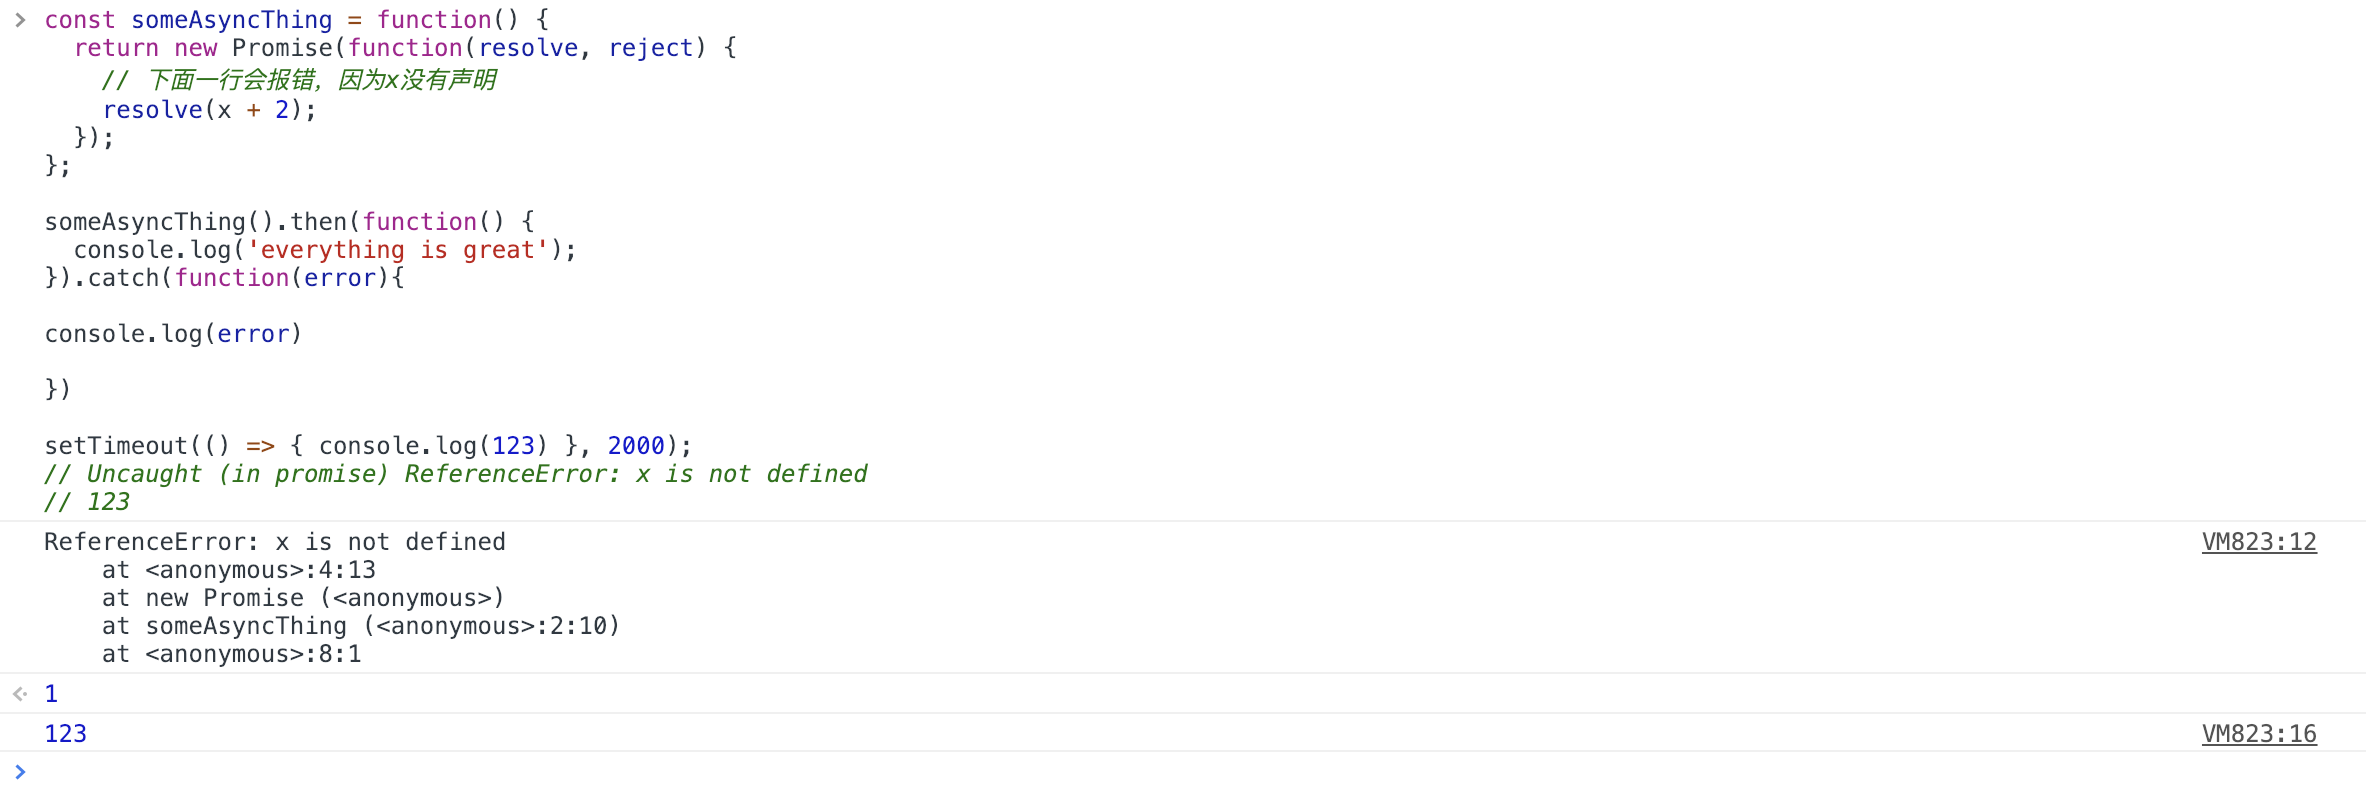
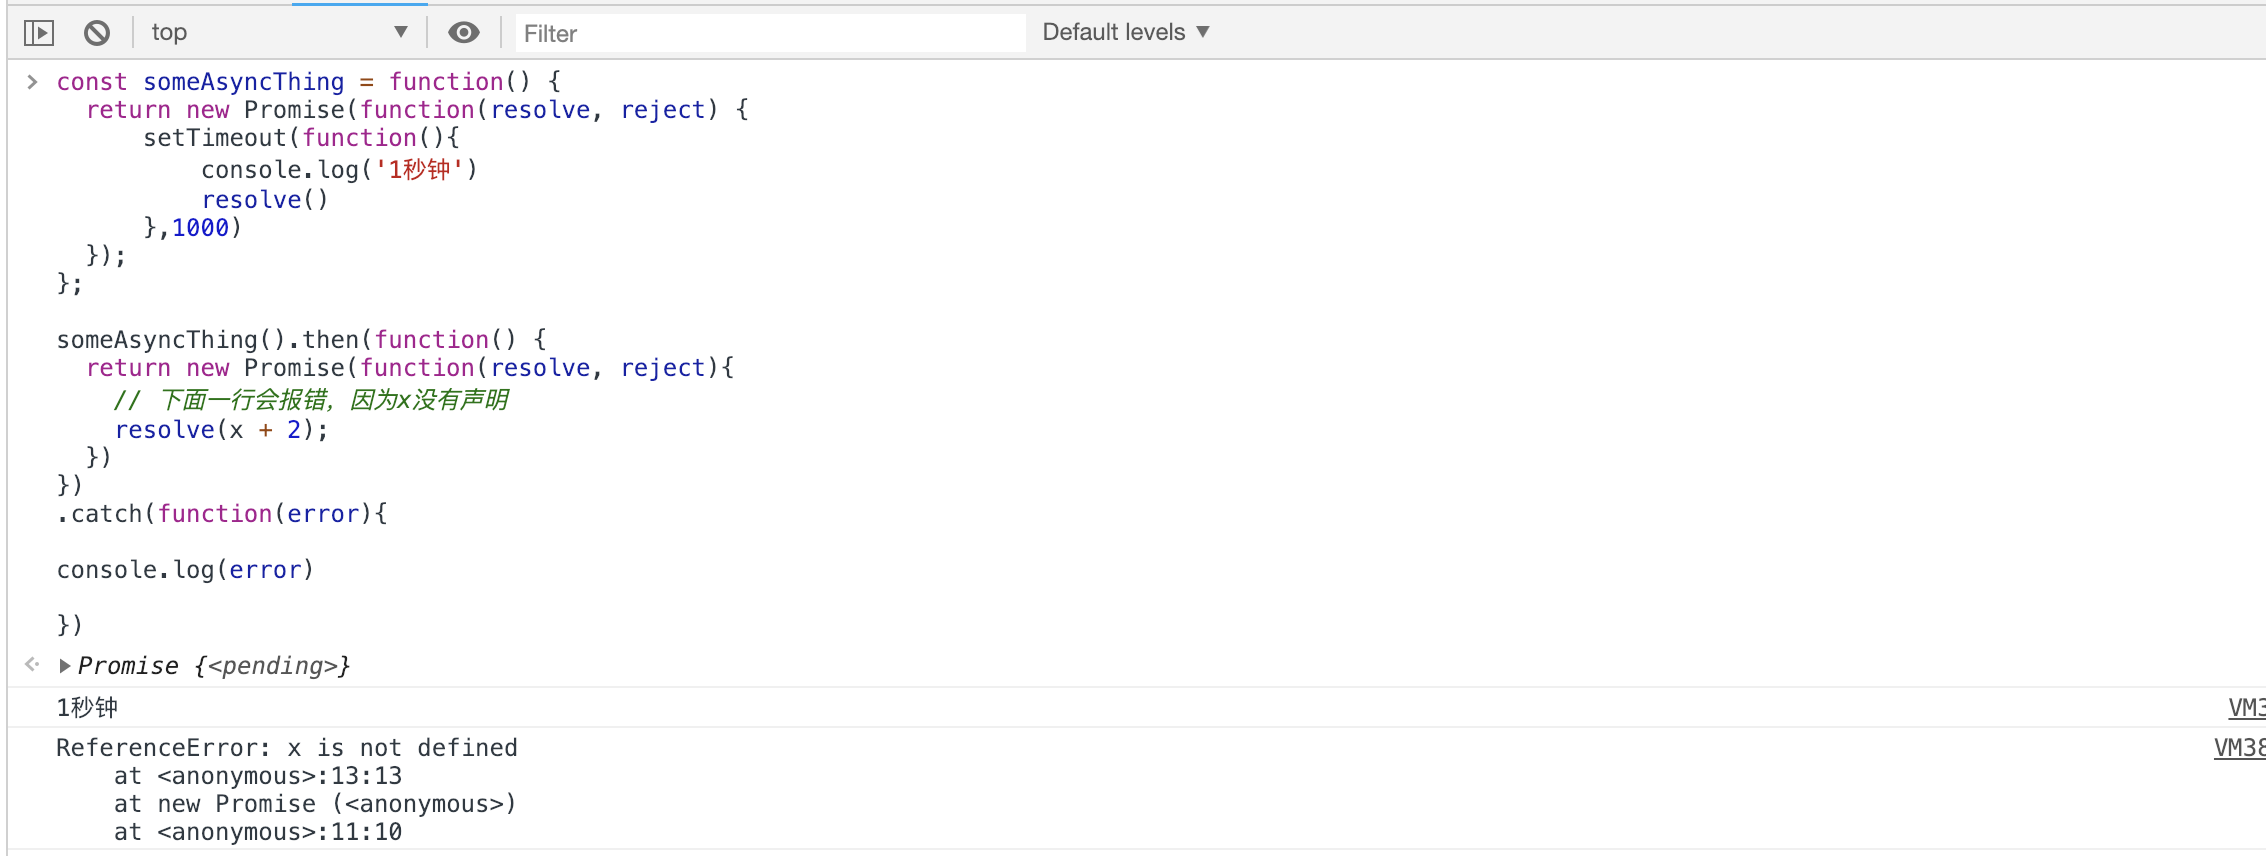
promise demo

diff --git a/es6/promsie/README.md b/es6/promsie/README.md
@@ -9,20 +9,24 @@ promise 内发的错误会被 Promise.prototype.catch 捕获。
 ```js
 const someAsyncThing = function() {
   return new Promise(function(resolve, reject) {
-    // 下面一行会报错，因为x没有声明
-    resolve(x + 2);
+      setTimeout(function(){
+          console.log('1秒钟')
+          resolve()
+      },1000)
   });
 };
 
 someAsyncThing().then(function() {
-  console.log('everything is great');
-}).catch(function(error){
+  return new Promise(function(resolve, reject){
+    // 下面一行会报错，因为x没有声明
+    resolve(x + 2);
+  })
+})
+.catch(function(error){
 
 console.log(error)
 
 })
-
-setTimeout(() => { console.log(123) }, 2000);
 ```
 
 浏览器报错信息：
@@ -33,27 +37,26 @@ setTimeout(() => { console.log(123) }, 2000);
 
 ```js
 const someAsyncThing = function() {
-    new Promise(function(resolve, reject) {
-        // 下面一行会报错，因为x没有声明
-        resolve(x + 2);
-    });
-
-    return new Promise(function(){
-
-        // 什么都不做
-
-    })
+  return new Promise(function(resolve, reject) {
+      setTimeout(function(){
+          console.log('1秒钟')
+          resolve()
+      },1000)
+  });
 };
 
 someAsyncThing().then(function() {
-  console.log('everything is great');
-}).catch(function(error){
+  new Promise(function(resolve, reject){
+    // 下面一行会报错，因为x没有声明
+    resolve(x + 2);
+  })
+    return
+})
+.catch(function(error){
 
 console.log(error)
 
 })
-
-setTimeout(() => { console.log(123) }, 2000);
 ```
 
 浏览器报错信息：
